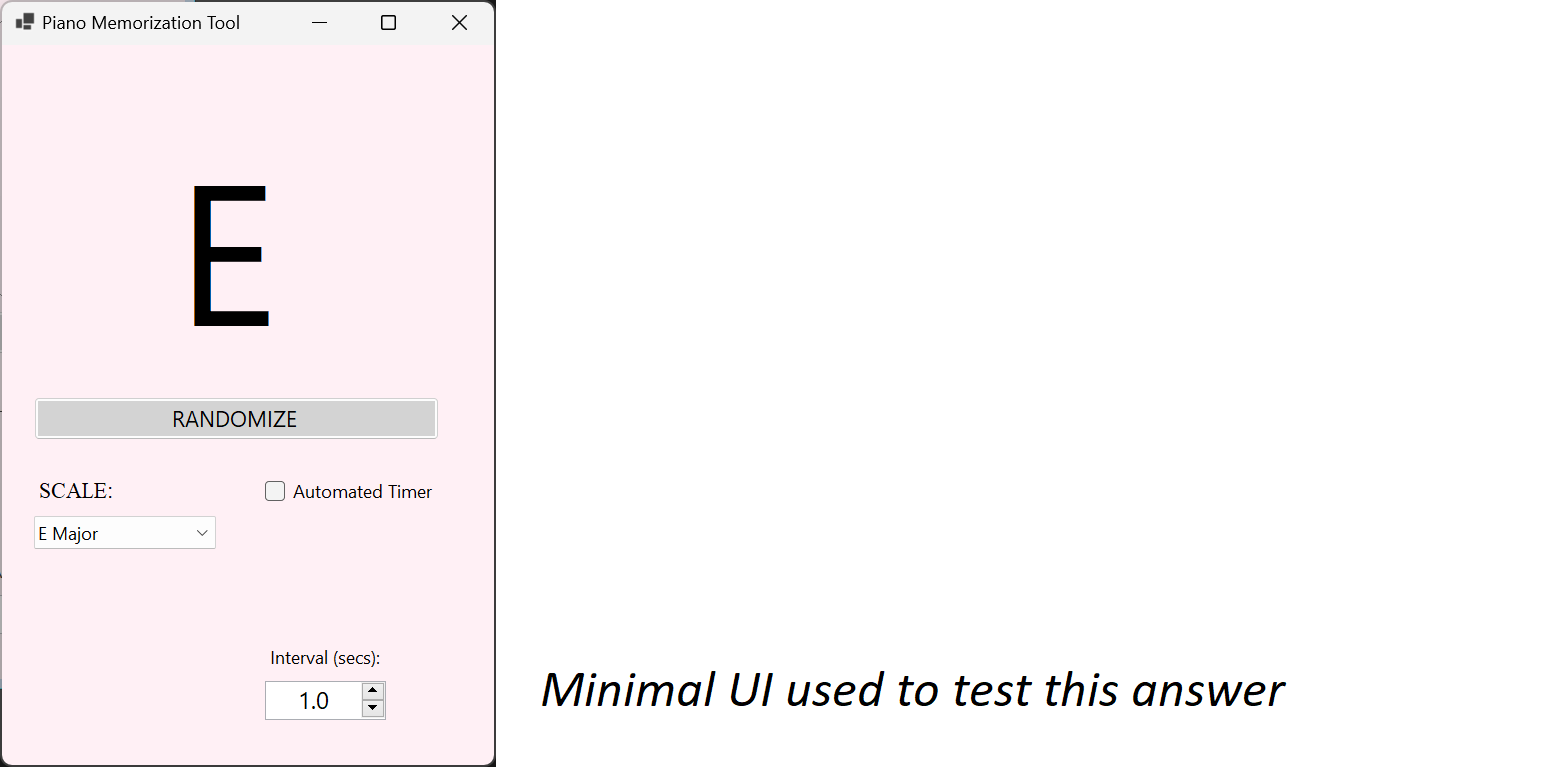
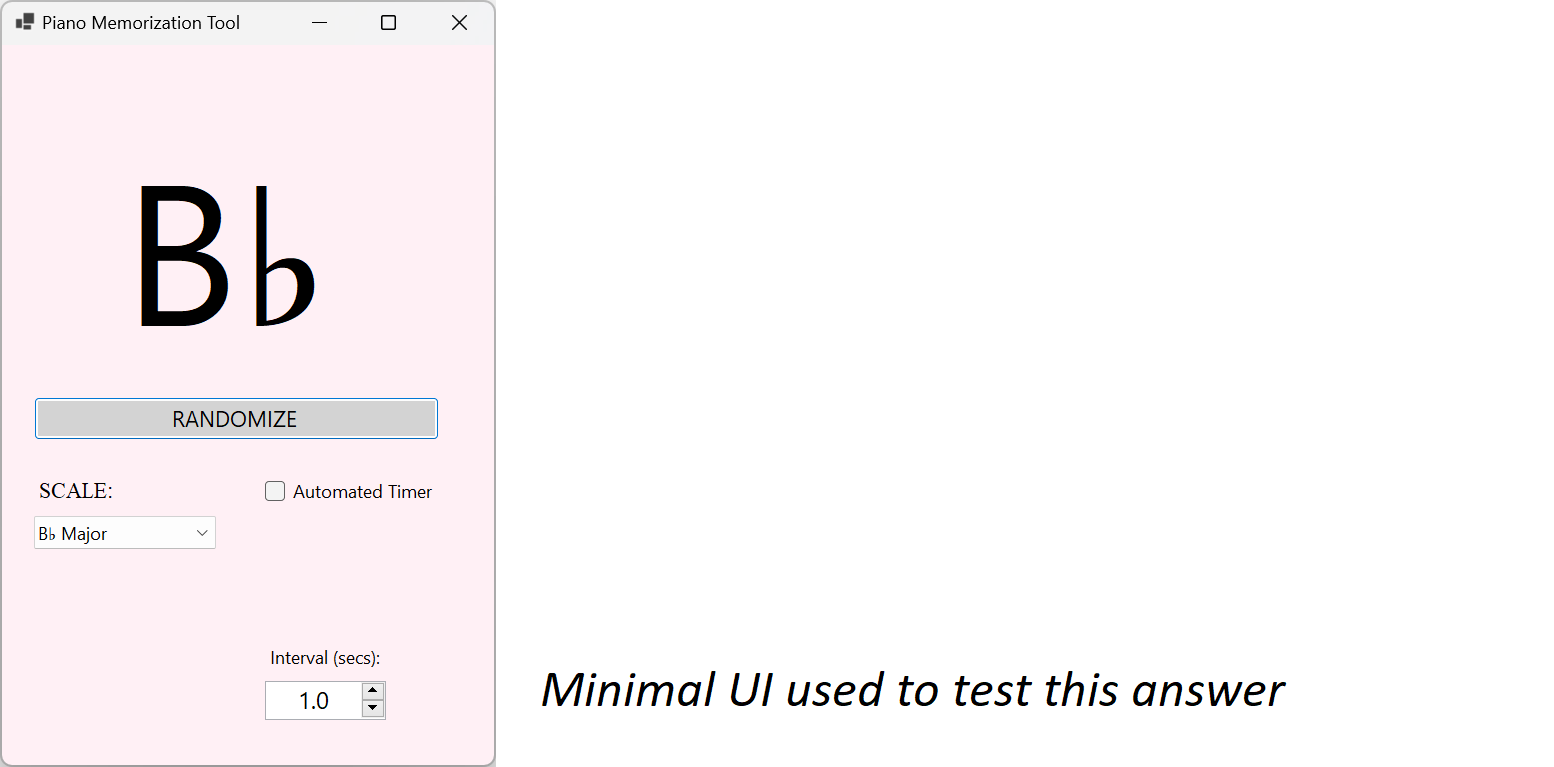
reworked scales to use unicode

Changed region(s): [[0.0927, 0.2399, 0.2162, 0.4498], [0.0, 0.9896, 0.3398, 1.0], [0.0309, 0.6897, 0.0618, 0.7197]]

diff --git a/scale-randomizer/MainForm.cs b/scale-randomizer/MainForm.cs
@@ -12,32 +12,58 @@ namespace scale_randomizer
             base.OnLoad(e);
             Scales.Add(new Scale
             {
-                Tonic = Key.C,
+                Key = Key.C,
                 Notes = new[] { "C", "D", "E", "F", "G", "A", "B", "C", },
             });
             Scales.Add(new Scale
             {
-                Tonic = Key.D,
-                Notes = new[] { "D", "E", "F#", "G", "A", "B", "C#", "D", },
+                Key = Key.D,
+                Notes = new[] 
+                { 
+                    "D", "E", 
+                    $"F{Signature.Sharp.ToUnicode()}", 
+                    "G", "A", "B", 
+                    $"C{Signature.Sharp.ToUnicode()}", 
+                    "D", 
+                },
             });
             Scales.Add(new Scale
             {
-                Tonic = Key.E,
-                Notes = new[] { "E", "F#", "G#", "A", "B", "C#", "D#", "E", },
+                Key = Key.E,
+                Notes = new[] 
+                { 
+                    "E", 
+                    $"F{Signature.Sharp.ToUnicode()}", 
+                    $"G{Signature.Sharp.ToUnicode()}", 
+                    "A", "B", 
+                    $"C{Signature.Sharp.ToUnicode()}", 
+                    $"D{Signature.Sharp.ToUnicode()}", 
+                    "E", 
+                },
             });
             Scales.Add(new Scale
             {
-                Tonic = Key.F,
-                Notes = new[] { "F", "G", "A", "Bb", "C", "D", "E", "F", },
+                Key = Key.F,
+                Notes = new[] 
+                { 
+                    "F", "G", "A", 
+                    $"B{Signature.Flat.ToUnicode()}", 
+                    "C", "D", "E", "F",
+                },
             });
             Scales.Add(new Scale
             {
-                Tonic = Key.G,
-                Notes = new[] { "G", "A", "B", "C", "D", "E", "F#", "G", },
+                Key = Key.G,
+                Notes = new[] 
+                { 
+                    "G", "A", "B", "C", "D", "E", 
+                    $"F{Signature.Sharp.ToUnicode()}", 
+                    "G", 
+                },
             });
             Scales.Add(new Scale
             {
-                Tonic = Key.B, Signature = Signature.Flat, 
+                Key = Key.B, Signature = Signature.Flat, 
                 Notes = new[] { 
                     $"B{Signature.Flat.ToUnicode()}", 
                     "C", "D", 
@@ -105,12 +131,12 @@ namespace scale_randomizer
     enum Signature { Natural, [Description("\u266F")] Sharp, [Description("\u266D")] Flat }
     class Scale
     {
-        public Key Tonic { get; set; }
+        public Key Key { get; set; }
         public ScaleForm Form { get; set; }
         public Signature Signature { get; set; }
         public string[] Notes { get; set; } = new string[0];
         // Determines what displays in the ComboBox
-        public override string ToString()=> $"{Tonic}{Signature.ToUnicode()} {Form}";
+        public override string ToString()=> $"{Key}{Signature.ToUnicode()} {Form}";
     }
     static class Extensions
     {
